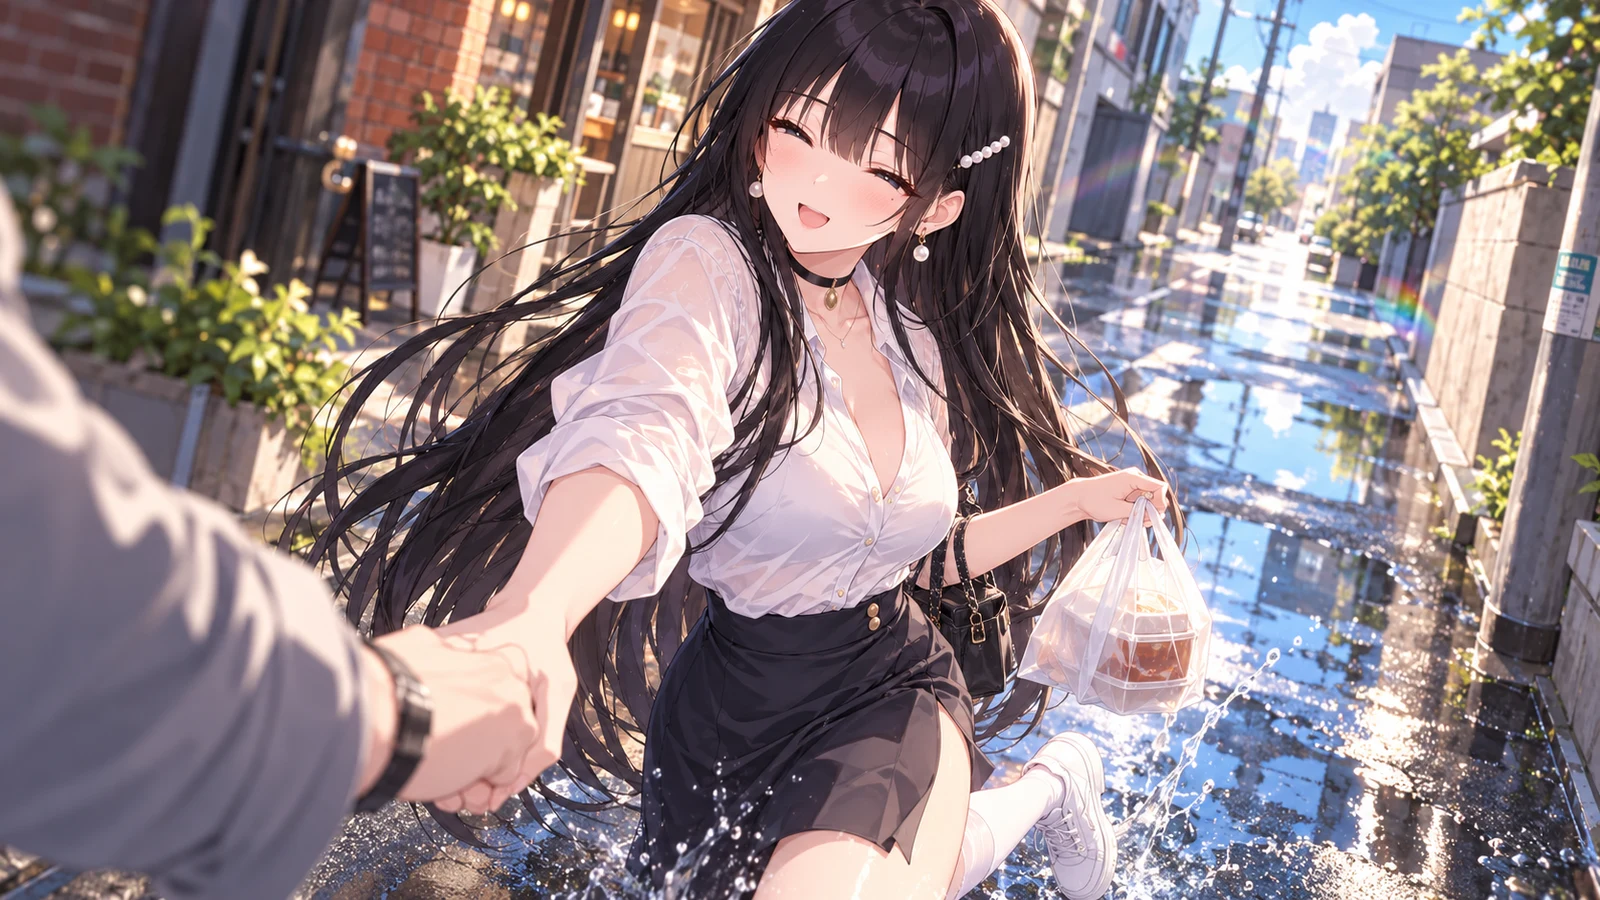
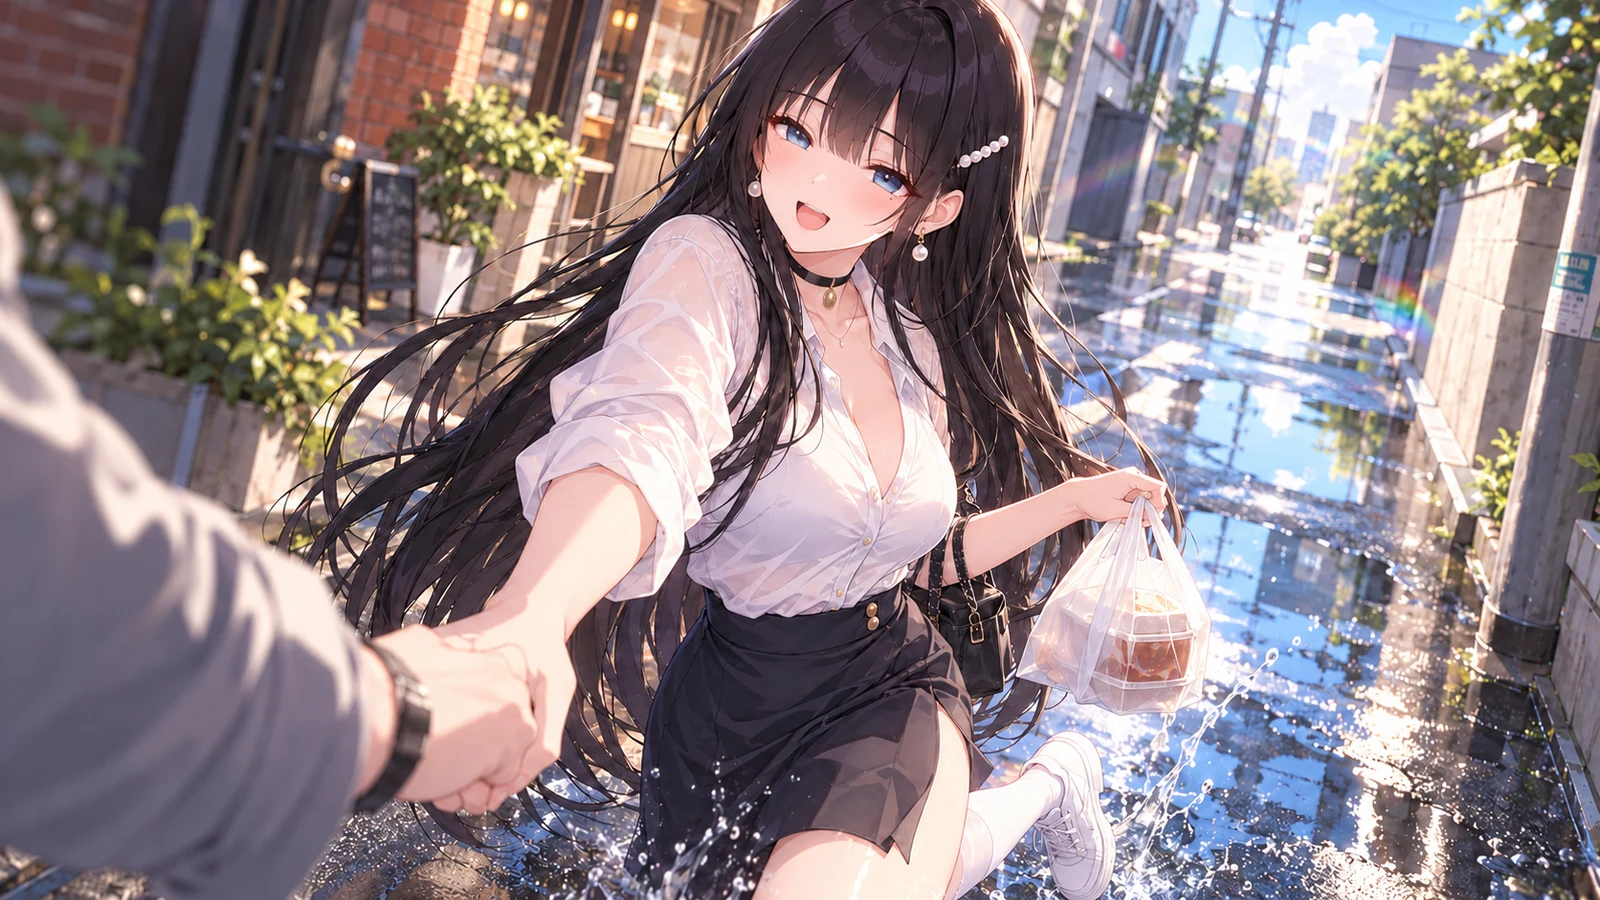
love: y_dawn 자세 · end_yeon_true 표정 다시 뽑음 + 한강 · 에이미 방 배경 + 새벽 장면 서술 맞춤

diff --git a/web/src/lib/love/script-w3y.ts b/web/src/lib/love/script-w3y.ts
@@ -1152,11 +1152,11 @@ export const W3Y: Scenes = {
     { t: "bgm", id: "confide" },
     { t: "show", who: "yeonseo", pos: "c", dist: 1 },
     { t: "cg", id: "y_dawn" },
-    N("블라인드 틈으로 새벽빛이 들어온다. 침대 끝에 앉은 그녀가, 등을 반쯤 돌린 채 블라우스 단추를 채우고 있다."),
+    N("블라인드 틈으로 새벽빛이 들어온다. 침대 끝에 비스듬히 걸터앉은 그녀가, 고개를 숙이고 블라우스 단추를 채우고 있다."),
     N("풀린 머리카락이 어깨를 덮었다. 장갑 없는 손이 단추 하나를 채우는 데 한참 걸렸다. 서두르지 않는 손이었다."),
     N("벽의 달력. 어제 날짜에 빨간 동그라미가 하나. 그녀가 언제 그렸는지 모르겠다."),
     Y("…오늘은… 출근하기 싫네요.", "whisper", "smile"),
-    N("마지막 단추를 채우지 않고, 그녀가 돌아봤다. 처음 보는 얼굴이었다. 무표정이 아니었다."),
+    N("마지막 단추를 채우지 않고, 그녀가 고개를 들었다. 처음 보는 얼굴이었다. 무표정이 아니었다."),
     Y("7년 동안 한 번도 그런 생각 안 했어요. 싫다는 생각.", "whisper", "blush"),
     { t: "cg", id: null },
     Y("…사장님은 오늘 안에 알아챌 거예요. 금고 비밀번호를 안 바꾸는 사람이니까, 장부도 매일 세요.", "base"),
